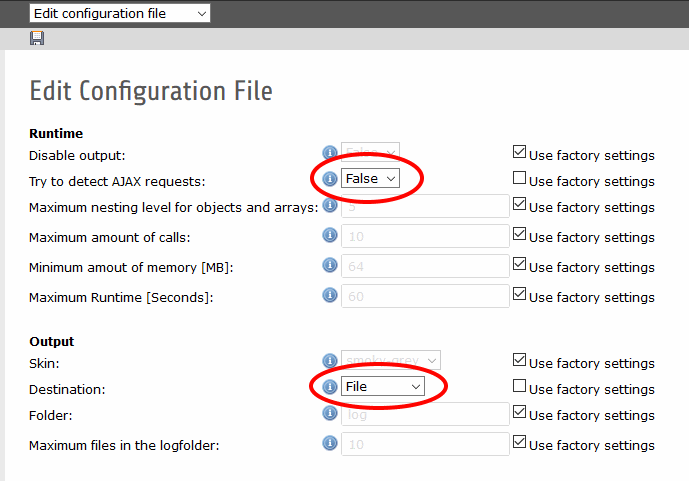
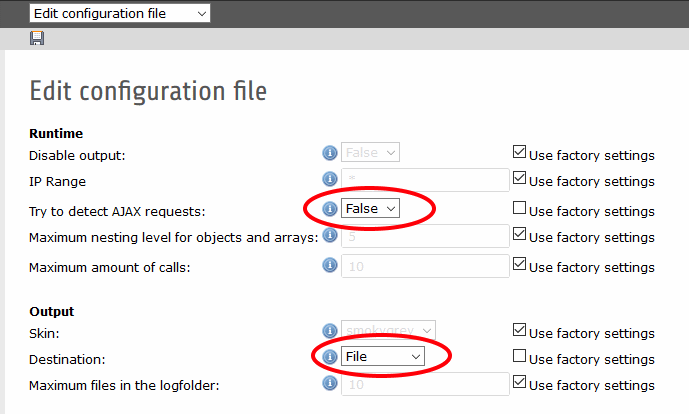
Updated the documentation for the TYPO3 doc server

diff --git a/Resources/Private/krexx/src/service/config/Security.php b/Resources/Private/krexx/src/service/config/Security.php
@@ -302,7 +302,8 @@ class Security extends Fallback
                 // We expect an array of ip's after an explode.
                 // But we are not vaidationg every singe one of them.
                 // We are just making sure that we get a list.
-                $result = !empty(trim($value));
+                $result = trim($value);
+                $result = !empty($result);
                 if (!$result) {
                     $this->storage->messages->addMessage(
                         $this->storage->messages->getHelp('configErrorIpList')

diff --git a/Resources/Private/krexx/src/analysis/callback/analyse/Objects.php b/Resources/Private/krexx/src/analysis/callback/analyse/Objects.php
@@ -152,7 +152,6 @@ class Objects extends AbstractCallback
     protected function getMethodData($data)
     {
         // Dumping all methods but only if we have any.
-        $public = array();
         $protected = array();
         $private = array();
         $ref = new \ReflectionClass($data);

diff --git a/Resources/Private/krexx/src/service/config/Config.php b/Resources/Private/krexx/src/service/config/Config.php
@@ -34,7 +34,6 @@
 
 namespace Brainworxx\Krexx\Service\Config;
 
-use Brainworxx\Krexx\Controller\OutputActions;
 use Brainworxx\Krexx\Service\Storage;
 
 /**

diff --git a/Documentation/Config/Options/Index.rst b/Documentation/Config/Options/Index.rst
@@ -27,6 +27,9 @@ Runtime
 | Disable output                 | | Is kreXX actually active?                                                                                                            | - true                    |
 |                                | | Here you can disable kreXX on a global level without uninstalling it.                                                                | - false                   |
 +--------------------------------+----------------------------------------------------------------------------------------------------------------------------------------+---------------------------+
+| IP Range                       | | IP whitelist (comma separated) with wildcard (*) support.                                                                            | 192.168.0.110,192.168.1.* |
+|                                | | List of IPs who can trigger kreXX. You can do something like '192.168.1.*', but not something like '192.168.*.110'.                  |                           |
++--------------------------------+----------------------------------------------------------------------------------------------------------------------------------------+---------------------------+
 | Try to detect AJAX requests    | | Shall kreXX try to detect an AJAX request?                                                                                           | - true                    |
 |                                | | If set to true, there will be no output when AJAX is detected, to prevent a js error.                                                | - false                   |
 +--------------------------------+----------------------------------------------------------------------------------------------------------------------------------------+---------------------------+
@@ -35,12 +38,6 @@ Runtime
 +--------------------------------+----------------------------------------------------------------------------------------------------------------------------------------+---------------------------+
 | Maximum amount of calls        | | How often can you call kreXX in one run?                                                                                             | 10                        |
 |                                | | kreXX can generate a lot of data, and depending on your settings increasing this number might not be a good idea.                    |                           |
-+--------------------------------+----------------------------------------------------------------------------------------------------------------------------------------+---------------------------+
-| Minimum amout of memory [MB]   | kreXX checks regularly how much memory is left. Here you can adjust the amount where it will trigger an emergency break. Unit of       | 64                        |
-|                                | measurement is MB.                                                                                                                     |                           |
-+--------------------------------+----------------------------------------------------------------------------------------------------------------------------------------+---------------------------+
-| Maximum Runtime [Seconds]      | kreXX checks during the analysis how much time has elapsed since start. Here you can adjust how many seconds can pass until an         | 60                        |
-|                                | emergency break will be triggered. Unit of measurement is seconds.                                                                     |                           |
 +--------------------------------+----------------------------------------------------------------------------------------------------------------------------------------+---------------------------+
 
 Output
@@ -54,8 +51,6 @@ Output
 | Destination                    | Will the output be sent to the frontend or the logfolder?                                                                              | - file                    |
 |                                |                                                                                                                                        | - frontend                |
 +--------------------------------+----------------------------------------------------------------------------------------------------------------------------------------+---------------------------+
-| Folder                         | Where shall kreXX save it's logfiles?                                                                                                  | log                       |
-+--------------------------------+----------------------------------------------------------------------------------------------------------------------------------------+---------------------------+
 | Maximum files in the logfolder | How many files should it keep? Files will only get deleted, when a new one is created.                                                 | 10                        |
 +--------------------------------+----------------------------------------------------------------------------------------------------------------------------------------+---------------------------+
 
@@ -67,7 +62,10 @@ Properties
 | Analyse protected properties   | | Shall kreXX create a reflection and poll it for data?                                                                                | - true                    |
 |                                | | kreXX will analyse all protected properties of a class.                                                                              | - false                   |
 +--------------------------------+----------------------------------------------------------------------------------------------------------------------------------------+---------------------------+
-| Analyse constants              | | kreXX will analyse all private properties of a class.                                                                                | - true                    |
+| Analyse private properties     | | The same as :literal:`Analyse protected properties`, only for private properties.                                                    | - true                    |
+|                                |                                                                                                                                        | - false                   |
++--------------------------------+----------------------------------------------------------------------------------------------------------------------------------------+---------------------------+
+| Analyse constants              | | kreXX will analyse all pconstants of a class.                                                                                        | - true                    |
 |                                |                                                                                                                                        | - false                   |
 +--------------------------------+----------------------------------------------------------------------------------------------------------------------------------------+---------------------------+
 | Analyse traversable data       | Shall kreXX try to traverse through the object?                                                                                        | - true                    |
@@ -79,9 +77,6 @@ Methods
 +--------------------------------+----------------------------------------------------------------------------------------------------------------------------------------+---------------------------+
 | Option                         | Description                                                                                                                            | Possible values / example |
 +================================+========================================================================================================================================+===========================+
-| Analyse class methods at all   | | Shall kreXX analyse all the methods of an object?                                                                                    | - true                    |
-|                                | | If set to yes, kreXX will analyse the methods of a class that are reachable within the scope, from where kreXX was called.           | - false                   |
-+--------------------------------+----------------------------------------------------------------------------------------------------------------------------------------+---------------------------+
 | Analyse protected methods      | Shall kreXX analyse all protected methods of an object?                                                                                | - true                    |
 |                                |                                                                                                                                        | - false                   |
 +--------------------------------+----------------------------------------------------------------------------------------------------------------------------------------+---------------------------+
@@ -106,9 +101,4 @@ Error Handling and Backtrace
 |                                | | and later unregister it with                                                                                                         |                           |
 |                                | | :literal:`\krexx::unregisterFatal();`                                                                                                |                           |
 |                                | | to prevent a slowdown.                                                                                                               |                           |
-+--------------------------------+----------------------------------------------------------------------------------------------------------------------------------------+---------------------------+
-| Backtrace analysis settings    | | Shall kreXX do a "deep" analysis of  the backtrace?                                                                                  | - deep                    |
-|                                |                                                                                                                                        | - normal                  |
-|                                | Be warned, a deep analysis can produce a lot of output. A "normal" analysis will use the configured settings, while a "deep"           |                           |
-|                                | analysis will get as much data from the object as possible.                                                                            |                           |
 +--------------------------------+----------------------------------------------------------------------------------------------------------------------------------------+---------------------------+

diff --git a/Documentation/Logging/Index.rst b/Documentation/Logging/Index.rst
@@ -18,7 +18,7 @@ Normally, the output of kreXX is send straight to the browser. But there are alw
 - Sending other developers the kreXX output
 - . . .
 
-You can configure kreXX to output it's data inside a file instead of trying to send it to the browser. How to do this, is explained in the chapter :ref:`config_options`.
+You can configure kreXX to output it's data inside a file. How to do this, is explained in the chapter :ref:`config_options`.
 Just change the output option **Destination** from **frontend** to **file**.
 
 |

diff --git a/Documentation/FatalError/Index.rst b/Documentation/FatalError/Index.rst
@@ -65,19 +65,9 @@ Activation in the settings
 |
 |
 
-.. figure:: ../Images/FatalError/activate_local.png
-	:width: 887px
-	:alt: kreXX fatal error handler
-
-	Activate the fatal error handler via your local cookie settings.
-
-|
-|
-|
-|
 
 .. figure:: ../Images/FatalError/activate_global.png
-	:width: 613px
+	:width: 640px
 	:alt: kreXX fatal error handler
 
 	Activate it globally in your typo3 installation in the configuration editor.

diff --git a/Documentation/Index.rst b/Documentation/Index.rst
@@ -29,7 +29,7 @@ kreXX Debugger
 		en
 
 	:Description:
-		kreXX is a php debugger with a fatal error handler. It displays debug information about objects and variables in it's own draggable output.
+		kreXX is a feature-rich PHP debugger. It displays a deep analysis of objects and arrays in a neatly arranged output window.
 
 	:Keywords:
 		debug, debugging, object, analysis

diff --git a/Documentation/Config/AjaxCli/Index.rst b/Documentation/Config/AjaxCli/Index.rst
@@ -8,7 +8,7 @@
 
 .. _ajax_cli:
 
-Ajax CLI and logging
+Ajax, CLI and logging
 ====================
 
 Ajax
